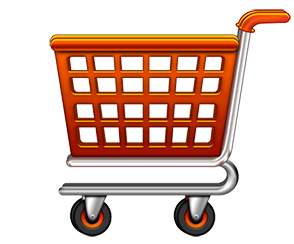
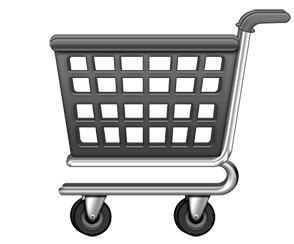
Novo template 2

diff --git a/www/index.html b/www/index.html
@@ -45,7 +45,7 @@
           <div class="col col-90" :="" <strong="" style="font-size:20px;margin:-5px"><i class="ion-checkmark-round"> Exibir finalizadas</i>
           </div>
           <div class="col col-10">
-            <label class="toggle toggle-assertive" style="margin: -13px">
+            <label class="toggle toggle-balanced" style="margin: -13px">
               <input type="checkbox" ng-model="showMarked">
                 <div class="track">
                   <div class="handle">
@@ -55,10 +55,10 @@
           </div>
         </div>
       </ion-footer-bar>
-      <ion-content style="background: url(img/carrinho.png) no-repeat center center fixed #dedede4f;">
+      <ion-content style="background: url(img/carrinho.png) no-repeat center center fixed #444444f5;">
         <div class="row">
           <div class="col col-50">
-            <button class="button button-block button-positive" ng-click="onItemAdd()" ; style="font-size:20px";>
+            <button class="button button-block button-balanced" ng-click="onItemAdd()" ; style="font-size:20px";>
               <i class="ion-ios-compose-outline" style="font-size:25px"></i>
               Adicionar
             </button>
@@ -75,8 +75,8 @@
             <div class="row">
               <div class="col col-80">
                 <label style="font-size:20px;">{{item.nome}}</label>
-                <ion-delete-button class="ion-minus-circled" ng-click="onItemRemove(item)"></ion-delete-button>
-                <ion-option-button class="button-royal" ng-click="onItemEdit(item)" style="color:white"><i class="ion-ios-gear"> Editar</i></ion-option-button>
+                <ion-delete-button class="button-assertive" style="background:#ef473a" ng-click="onItemRemove(item)"><i class="ion-ios-minus-outline" style="color:white;margin-left: 5px;"></i></ion-delete-button>
+                <ion-option-button class="button-positive" ng-click="onItemEdit(item)"><i class="ion-ios-gear"> Editar</i></ion-option-button>
               </div>
               <div class="col col-20">
               <button class="button button-small button-positive button-outline" ng-click="onMarkTask(item)">

diff --git a/www/css/style.css b/www/css/style.css
@@ -1,3 +1,45 @@
-.img-carrinho {
-background-image: img/carrinho.png
+.item-content{
+  background: #f1f1f1 !important;
+  border-radius: 25px !important;
+
+}
+.button-assertive{
+  /*background-color: white !important;
+  color: black !important;*/
+  border-radius: 25px !important;
+  /*border: 2px solid #ef473a !important;*/
+}
+
+/*.button-assertive:hover{
+  background-color: #ef473a !important;
+  color: white !important;
+}*/
+
+.button-positive{
+  /*background-color: white !important;
+  color: black !important;*/
+  border-radius: 25px !important;
+  /*border: 2px solid #387ef5 !important;*/
+}
+
+.button-balanced{
+  /*background-color: white !important;
+  color: black !important;*/
+  border-radius: 25px !important;
+  /*border: 2px solid #387ef5 !important;*/
+}
+
+/*.button-positive:hover{
+  background-color: #387ef5 !important;
+  color: white !important;
+}*/
+
+.item{
+  background-color: #444444 !important;
+  border-color: #0000 !important;
+}
+
+.item-delete{
+  background: #ef473a !important;
+  border-radius: 25px !important;
 }
